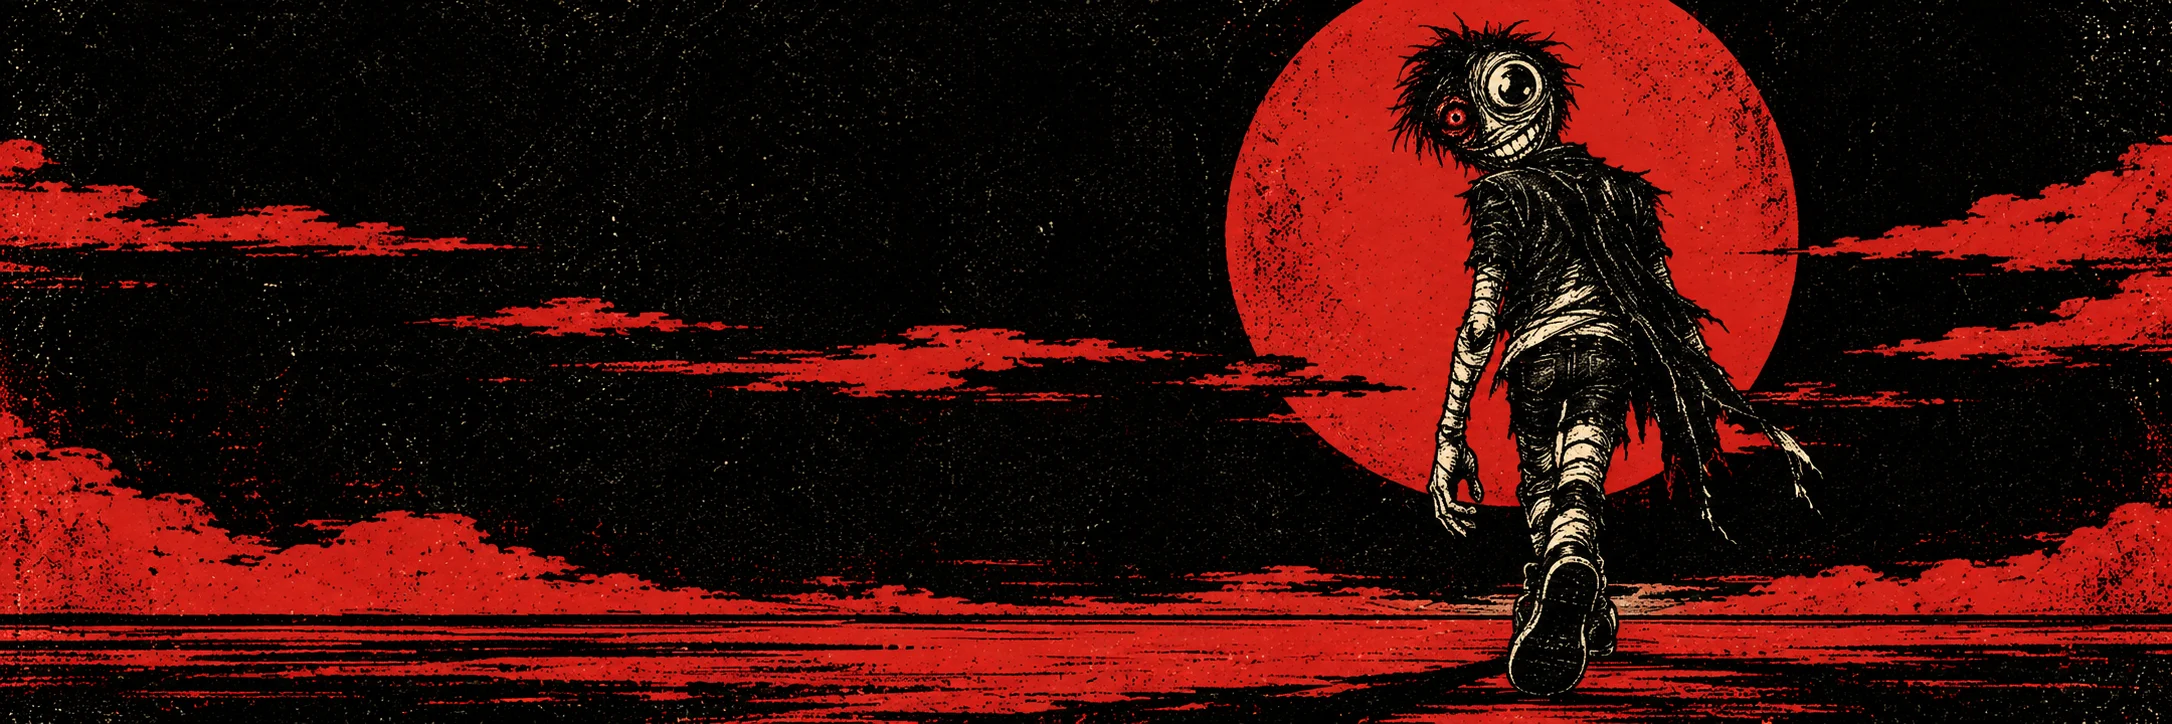
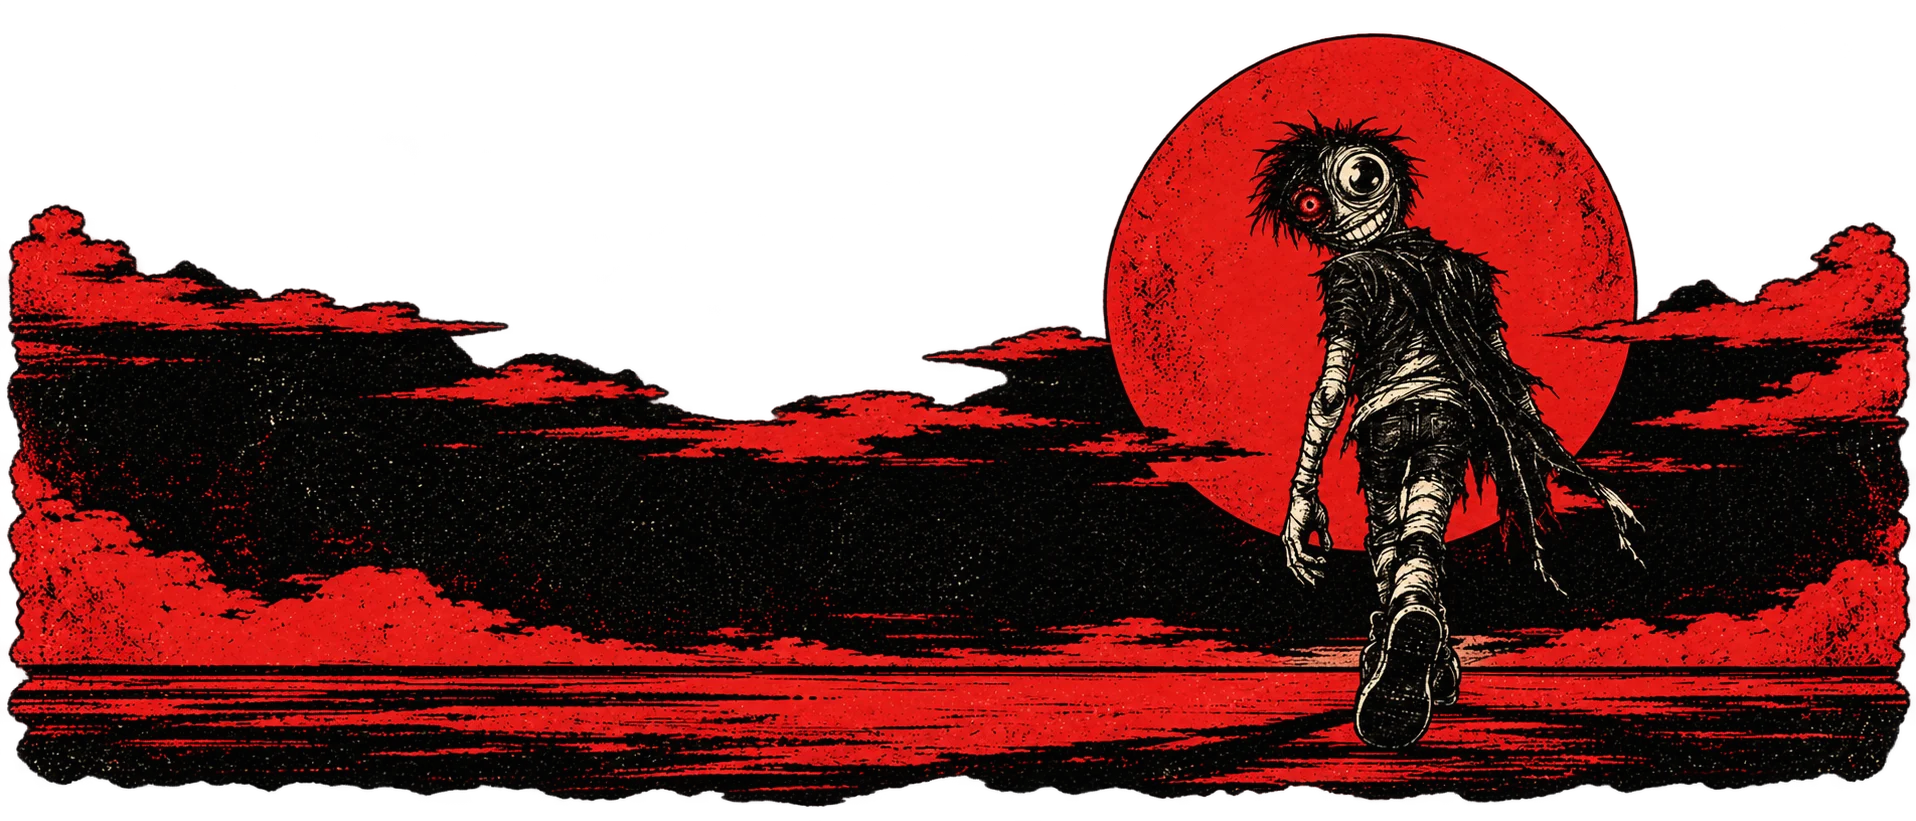
Fix IGW artwork placement and preserve full sun across screen sizes

diff --git a/tokens/IGW/site/style.css b/tokens/IGW/site/style.css
@@ -1,7 +1,7 @@
-:root{--bg:#10100e;--paper:#eee5cf;--muted:#a9a696;--red:#f4472d;--line:#383830}*{box-sizing:border-box}html{scroll-behavior:smooth;scroll-padding-top:24px}body{margin:0;background:var(--bg);color:var(--paper);font:16px/1.6 Arial,Helvetica,sans-serif}a{color:inherit;text-decoration:none}button,a,summary{-webkit-tap-highlight-color:transparent}a:focus-visible,summary:focus-visible{outline:2px solid var(--red);outline-offset:6px}.wrap{width:min(1280px,calc(100% - 96px));margin-inline:auto}.skip{position:absolute;left:16px;top:-100px;background:var(--paper);color:var(--bg);padding:12px;z-index:5}.skip:focus{top:8px}.nav{height:94px;display:flex;align-items:center;justify-content:space-between;border-bottom:1px solid var(--line)}.brand{display:flex;align-items:center;gap:12px;font-size:24px;font-weight:900;line-height:1.1;letter-spacing:-1px}.brand img{border-radius:50%}.brand-sub{display:block;font:9px/1.6 'Courier New',monospace;letter-spacing:1.8px;margin-top:4px}.nav nav{display:flex;gap:36px;align-items:center;font-size:13px}.nav-status,.eyebrow,.small-status,.tag,.fund-label,.hero-foot,.margin-note{font:11px/1.5 'Courier New',monospace;letter-spacing:1.8px}.nav-status{border:1px solid var(--line);padding:10px 14px}.dot{display:inline-block;width:6px;height:6px;border-radius:50%;background:var(--red);margin-right:7px}.hero{position:relative;isolation:isolate;min-height:640px;overflow:hidden}.hero-art{position:absolute;z-index:-2;inset:0;width:100%;height:100%;object-fit:cover;object-position:65% center}.hero:after{content:'';position:absolute;inset:0;z-index:-1;background:linear-gradient(90deg,#10100ee8,transparent 65%)}.hero-content{padding-top:54px;padding-bottom:45px}.eyebrow{margin:0 0 24px}.hero h1{font-family:Impact,'Arial Narrow',sans-serif;font-weight:900;font-size:clamp(80px,9.8vw,150px);line-height:.92;letter-spacing:-3px;margin:0 0 26px}.hero h1 span{color:var(--red)}.hero-copy{font-size:20px;line-height:1.55;margin:0 0 26px}.button{display:inline-flex;align-items:center;justify-content:space-between;gap:28px;padding:17px 22px;font:bold 11px/1.5 'Courier New',monospace;letter-spacing:.6px;transition:background .15s,transform .15s}.button:hover{transform:translateY(-2px)}.red{background:var(--red);color:#10100e}.red:hover{background:#ff684e}.pale{background:var(--paper);color:var(--bg)}.hero-foot{font-size:9px;margin-top:22px;color:#cac3af}.margin-note{position:absolute;right:24px;bottom:30px;writing-mode:vertical-rl;font-size:9px}.ticker{display:flex;justify-content:space-around;align-items:center;gap:24px;overflow:hidden;white-space:nowrap;border-block:1px solid var(--line);padding:14px 24px;background:var(--paper);color:var(--bg);font:bold 11px 'Courier New',monospace;letter-spacing:2px}.draw-section{padding-block:90px}.section-heading{display:flex;justify-content:space-between;align-items:baseline}.small-status{color:var(--muted);font-size:9px}.draw-grid{display:grid;grid-template-columns:1fr 1fr;gap:100px;align-items:center}h2{font-size:clamp(36px,4.5vw,64px);letter-spacing:-2px;line-height:1.04;margin:0 0 26px;font-weight:800}.draw-intro>p{max-width:430px}.muted{color:var(--muted);font-size:14px}.draw-card{border:1px solid #5d5a4e;padding:30px;background:#1b1b17;position:relative}.draw-card:before{content:'';position:absolute;top:-1px;left:-1px;width:70px;height:3px;background:var(--red)}.card-top{display:flex;justify-content:space-between;gap:12px;align-items:center}.card-top .eyebrow{margin:0}.tag{font-size:8px;border:1px solid var(--line);padding:5px 8px;color:var(--muted);white-space:nowrap}.fund{padding:32px 0 22px}.fund-label{display:block;color:var(--muted);font-size:9px}.fund strong{font-size:68px;line-height:1.3;letter-spacing:-3px}.fund strong span{font-size:17px;letter-spacing:0;color:var(--muted)}.draw-facts{border-top:1px solid var(--line);padding:14px 0 20px}.draw-facts>div{display:flex;justify-content:space-between;gap:16px;font-size:12px;padding:7px 0}.draw-facts span{color:var(--muted)}.draw-card .button{width:100%}.card-note{font-size:11px;color:var(--muted);margin:18px 0 0}.how-section{background:var(--paper);color:var(--bg);padding:75px 0}.how-section .eyebrow{color:#655e50}.steps{display:grid;grid-template-columns:repeat(3,1fr);gap:45px;margin-top:48px}.steps article{border-top:1px solid #bdb5a3;padding-top:18px}.step-number{font:12px 'Courier New',monospace;color:#77705f}h3{font-size:22px;letter-spacing:-.7px;margin:22px 0 12px}.steps p{font-size:14px;color:#585447;margin:0}.split{border-top:1px solid #bdb5a3;margin-top:45px;padding-top:25px;display:flex;align-items:center;gap:65px}.split>span{font:10px/1.7 'Courier New',monospace;letter-spacing:1px;max-width:130px;margin-right:auto}.split>div{display:flex;flex-direction:column}.split strong{font-size:33px;line-height:1.3;letter-spacing:-1px}.split div span{font-size:11px;color:#585447}.launch-section{display:grid;grid-template-columns:1fr 1fr;gap:100px;padding-block:90px}.launch-section h2{font-size:48px}.launch-card{border-block:1px solid var(--line);padding:12px 0;align-self:center}.launch-row{display:flex;justify-content:space-between;gap:20px;font-size:13px;padding:16px 0;border-bottom:1px solid var(--line)}.launch-row span{color:var(--muted)}.launch-row strong{text-align:right}.launch-card>p{font-size:11px;color:var(--muted)}.orange-text{color:var(--red)}.faq{padding-bottom:75px}.faq details{border-top:1px solid var(--line);padding:18px 0}.faq details:last-child{border-bottom:1px solid var(--line)}.faq summary{cursor:pointer;font-size:17px;font-weight:600;list-style:none;display:flex;justify-content:space-between;gap:15px}.faq summary::-webkit-details-marker{display:none}.faq summary:after{content:'+';color:var(--red)}.faq details[open] summary:after{content:'−'}.faq details p{font-size:14px;color:var(--muted);max-width:750px}.outro{position:relative;overflow:hidden}.outro-title{padding-top:30px;position:relative;z-index:1}.outro h2{font-family:Impact,'Arial Narrow',sans-serif;font-size:clamp(45px,6vw,85px);letter-spacing:0}.outro img{display:block;width:100%;height:auto;margin-top:-55px}.outro-title .eyebrow{color:var(--red)}footer{display:flex;align-items:center;justify-content:space-between;gap:24px;flex-wrap:wrap;padding:32px 0;border-top:1px solid var(--line)}footer>p,footer>a:last-of-type{font-size:11px;color:var(--muted)}footer .brand-sub{margin:0}footer .fine-print{flex-basis:100%;font-size:10px;margin:0;border-top:1px solid var(--line);padding-top:20px}
-@media(min-width:1800px){.hero-art{object-fit:contain;background:#030302}.hero{min-height:720px}}
-@media(max-width:900px){.wrap{width:calc(100% - 48px)}.draw-grid,.launch-section{gap:35px}.nav nav{gap:20px}.hero{min-height:610px}.hero-art{object-position:60% center}.draw-section,.launch-section{padding-block:60px}.steps{gap:22px}.split{gap:28px}.launch-section h2{font-size:38px}}
-@media(max-width:600px){.wrap{width:calc(100% - 36px)}.nav{height:76px}.nav nav>a:not(.nav-status){display:none}.nav-status{font-size:9px;padding:8px 10px}.brand{font-size:21px}.brand-sub{font-size:8px}.hero{min-height:680px}.hero-art{height:380px;top:auto;bottom:0;object-position:75% center}.hero:after{background:linear-gradient(180deg,#10100e 36%,#10100e99 57%,transparent 80%)}.hero-content{padding-top:35px}.hero h1{font-size:91px;letter-spacing:-2px}.hero-copy{font-size:16px;max-width:230px}.hero .eyebrow{font-size:9px}.hero-foot{font-size:8px}.hero .button{padding:14px 17px;font-size:10px}.margin-note{display:none}.ticker{justify-content:flex-start;font-size:9px;padding:12px 18px}.ticker span:nth-child(n+4){display:none}.section-heading{display:block}.small-status{margin-bottom:24px}.draw-grid,.launch-section{grid-template-columns:1fr;gap:28px}h2{font-size:44px}.draw-intro>p{font-size:14px}.draw-card{padding:23px}.steps{grid-template-columns:1fr;gap:28px;margin-top:30px}.steps h3{margin:12px 0 8px}.how-section{padding:50px 0}.split{flex-wrap:wrap;justify-content:space-between;gap:22px}.split>span{flex-basis:100%;max-width:none}.split strong{font-size:30px}.split div span{font-size:10px}.launch-section{padding-block:55px}.launch-section h2{font-size:43px}.faq summary{font-size:15px}.faq{padding-bottom:45px}.outro-title{padding-top:0}.outro h2{font-size:46px}.outro img{width:150%;max-width:none;margin-top:0;margin-left:-16%}footer{gap:18px}footer .brand{width:100%}footer>p{margin:0}.card-top .eyebrow{font-size:10px;letter-spacing:1px}}
+:root{--bg:#10100e;--paper:#eee5cf;--muted:#a9a696;--red:#f4472d;--line:#383830}*{box-sizing:border-box}html{scroll-behavior:smooth;scroll-padding-top:24px}body{margin:0;background:var(--bg);color:var(--paper);font:16px/1.6 Arial,Helvetica,sans-serif}a{color:inherit;text-decoration:none}button,a,summary{-webkit-tap-highlight-color:transparent}a:focus-visible,summary:focus-visible{outline:2px solid var(--red);outline-offset:6px}.wrap{width:min(1280px,calc(100% - 96px));margin-inline:auto}.skip{position:absolute;left:16px;top:-100px;background:var(--paper);color:var(--bg);padding:12px;z-index:5}.skip:focus{top:8px}.nav{height:94px;display:flex;align-items:center;justify-content:space-between;border-bottom:1px solid var(--line)}.brand{display:flex;align-items:center;gap:12px;font-size:24px;font-weight:900;line-height:1.1;letter-spacing:-1px}.brand img{border-radius:50%}.brand-sub{display:block;font:9px/1.6 'Courier New',monospace;letter-spacing:1.8px;margin-top:4px}.nav nav{display:flex;gap:36px;align-items:center;font-size:13px}.nav-status,.eyebrow,.small-status,.tag,.fund-label,.hero-foot,.margin-note{font:11px/1.5 'Courier New',monospace;letter-spacing:1.8px}.nav-status{border:1px solid var(--line);padding:10px 14px}.dot{display:inline-block;width:6px;height:6px;border-radius:50%;background:var(--red);margin-right:7px}.hero{position:relative;isolation:isolate;min-height:640px;overflow:hidden}.hero-art{position:absolute;z-index:-2;inset:0;width:100%;height:100%;object-fit:contain;object-position:center bottom}.hero:after{content:'';position:absolute;inset:0;z-index:-1;background:linear-gradient(90deg,#10100ee8,transparent 65%)}.hero-content{padding-top:54px;padding-bottom:45px}.eyebrow{margin:0 0 24px}.hero h1{font-family:Impact,'Arial Narrow',sans-serif;font-weight:900;font-size:clamp(80px,9.8vw,150px);line-height:.92;letter-spacing:-3px;margin:0 0 26px}.hero h1 span{color:var(--red)}.hero-copy{font-size:20px;line-height:1.55;margin:0 0 26px}.button{display:inline-flex;align-items:center;justify-content:space-between;gap:28px;padding:17px 22px;font:bold 11px/1.5 'Courier New',monospace;letter-spacing:.6px;transition:background .15s,transform .15s}.button:hover{transform:translateY(-2px)}.red{background:var(--red);color:#10100e}.red:hover{background:#ff684e}.pale{background:var(--paper);color:var(--bg)}.hero-foot{font-size:9px;margin-top:22px;color:#cac3af}.margin-note{position:absolute;right:24px;bottom:30px;writing-mode:vertical-rl;font-size:9px}.ticker{display:flex;justify-content:space-around;align-items:center;gap:24px;overflow:hidden;white-space:nowrap;border-block:1px solid var(--line);padding:14px 24px;background:var(--paper);color:var(--bg);font:bold 11px 'Courier New',monospace;letter-spacing:2px}.draw-section{padding-block:90px}.section-heading{display:flex;justify-content:space-between;align-items:baseline}.small-status{color:var(--muted);font-size:9px}.draw-grid{display:grid;grid-template-columns:1fr 1fr;gap:100px;align-items:center}h2{font-size:clamp(36px,4.5vw,64px);letter-spacing:-2px;line-height:1.04;margin:0 0 26px;font-weight:800}.draw-intro>p{max-width:430px}.muted{color:var(--muted);font-size:14px}.draw-card{border:1px solid #5d5a4e;padding:30px;background:#1b1b17;position:relative}.draw-card:before{content:'';position:absolute;top:-1px;left:-1px;width:70px;height:3px;background:var(--red)}.card-top{display:flex;justify-content:space-between;gap:12px;align-items:center}.card-top .eyebrow{margin:0}.tag{font-size:8px;border:1px solid var(--line);padding:5px 8px;color:var(--muted);white-space:nowrap}.fund{padding:32px 0 22px}.fund-label{display:block;color:var(--muted);font-size:9px}.fund strong{font-size:68px;line-height:1.3;letter-spacing:-3px}.fund strong span{font-size:17px;letter-spacing:0;color:var(--muted)}.draw-facts{border-top:1px solid var(--line);padding:14px 0 20px}.draw-facts>div{display:flex;justify-content:space-between;gap:16px;font-size:12px;padding:7px 0}.draw-facts span{color:var(--muted)}.draw-card .button{width:100%}.card-note{font-size:11px;color:var(--muted);margin:18px 0 0}.how-section{background:var(--paper);color:var(--bg);padding:75px 0}.how-section .eyebrow{color:#655e50}.steps{display:grid;grid-template-columns:repeat(3,1fr);gap:45px;margin-top:48px}.steps article{border-top:1px solid #bdb5a3;padding-top:18px}.step-number{font:12px 'Courier New',monospace;color:#77705f}h3{font-size:22px;letter-spacing:-.7px;margin:22px 0 12px}.steps p{font-size:14px;color:#585447;margin:0}.split{border-top:1px solid #bdb5a3;margin-top:45px;padding-top:25px;display:flex;align-items:center;gap:65px}.split>span{font:10px/1.7 'Courier New',monospace;letter-spacing:1px;max-width:130px;margin-right:auto}.split>div{display:flex;flex-direction:column}.split strong{font-size:33px;line-height:1.3;letter-spacing:-1px}.split div span{font-size:11px;color:#585447}.launch-section{display:grid;grid-template-columns:1fr 1fr;gap:100px;padding-block:90px}.launch-section h2{font-size:48px}.launch-card{border-block:1px solid var(--line);padding:12px 0;align-self:center}.launch-row{display:flex;justify-content:space-between;gap:20px;font-size:13px;padding:16px 0;border-bottom:1px solid var(--line)}.launch-row span{color:var(--muted)}.launch-row strong{text-align:right}.launch-card>p{font-size:11px;color:var(--muted)}.orange-text{color:var(--red)}.faq{padding-bottom:75px}.faq details{border-top:1px solid var(--line);padding:18px 0}.faq details:last-child{border-bottom:1px solid var(--line)}.faq summary{cursor:pointer;font-size:17px;font-weight:600;list-style:none;display:flex;justify-content:space-between;gap:15px}.faq summary::-webkit-details-marker{display:none}.faq summary:after{content:'+';color:var(--red)}.faq details[open] summary:after{content:'−'}.faq details p{font-size:14px;color:var(--muted);max-width:750px}.outro{position:relative;overflow:hidden}.outro-title{padding-top:30px;position:relative;z-index:1}.outro h2{font-family:Impact,'Arial Narrow',sans-serif;font-size:clamp(45px,6vw,85px);letter-spacing:0}.outro img{display:block;width:100%;height:auto;margin-top:-55px}.outro-title .eyebrow{color:var(--red)}footer{display:flex;align-items:center;justify-content:space-between;gap:24px;flex-wrap:wrap;padding:32px 0;border-top:1px solid var(--line)}footer>p,footer>a:last-of-type{font-size:11px;color:var(--muted)}footer .brand-sub{margin:0}footer .fine-print{flex-basis:100%;font-size:10px;margin:0;border-top:1px solid var(--line);padding-top:20px}
+@media(min-width:1800px){.hero{min-height:720px}}
+@media(max-width:900px){.wrap{width:calc(100% - 48px)}.draw-grid,.launch-section{gap:35px}.nav nav{gap:20px}.hero{min-height:610px}.draw-section,.launch-section{padding-block:60px}.steps{gap:22px}.split{gap:28px}.launch-section h2{font-size:38px}}
+@media(max-width:600px){.wrap{width:calc(100% - 36px)}.nav{height:76px}.nav nav>a:not(.nav-status){display:none}.nav-status{font-size:9px;padding:8px 10px}.brand{font-size:21px}.brand-sub{font-size:8px}.hero{min-height:640px}.hero-art{height:260px;top:auto;bottom:0}.hero:after{background:linear-gradient(180deg,#10100e 36%,#10100e99 57%,transparent 80%)}.hero-content{padding-top:35px}.hero h1{font-size:91px;letter-spacing:-2px}.hero-copy{font-size:16px;max-width:230px}.hero .eyebrow{font-size:9px}.hero-foot{font-size:8px}.hero .button{padding:14px 17px;font-size:10px}.margin-note{display:none}.ticker{justify-content:flex-start;font-size:9px;padding:12px 18px}.ticker span:nth-child(n+4){display:none}.section-heading{display:block}.small-status{margin-bottom:24px}.draw-grid,.launch-section{grid-template-columns:1fr;gap:28px}h2{font-size:44px}.draw-intro>p{font-size:14px}.draw-card{padding:23px}.steps{grid-template-columns:1fr;gap:28px;margin-top:30px}.steps h3{margin:12px 0 8px}.how-section{padding:50px 0}.split{flex-wrap:wrap;justify-content:space-between;gap:22px}.split>span{flex-basis:100%;max-width:none}.split strong{font-size:30px}.split div span{font-size:10px}.launch-section{padding-block:55px}.launch-section h2{font-size:43px}.faq summary{font-size:15px}.faq{padding-bottom:45px}.outro-title{padding-top:0}.outro h2{font-size:46px}.outro img{margin-top:16px}footer{gap:18px}footer .brand{width:100%}footer>p{margin:0}.card-top .eyebrow{font-size:10px;letter-spacing:1px}}
 @media(prefers-reduced-motion:reduce){html{scroll-behavior:auto}.button{transition:none}}
 
 /* Fictional fridge connection loop; pauses outside the viewport. */

diff --git a/tokens/IGW/site/index.html b/tokens/IGW/site/index.html
@@ -6,15 +6,15 @@
  <meta name="description" content="The world is going to shit. Meet IGW, a token with community prize draws. Coming to Pons. What could possibly go wrong?">
  <meta name="theme-color" content="#10100e"><link rel="canonical" href="https://igw.qianqi.site/">
  <meta property="og:title" content="It Gets Worse — IGW"><meta property="og:description" content="Everything is fucked. We're still here. IGW is preparing to launch on Pons."><meta property="og:image" content="https://igw.qianqi.site/assets/hero.webp"><meta property="og:url" content="https://igw.qianqi.site/"><meta property="og:type" content="website">
- <link rel="icon" href="/assets/favicon.png"><link rel="stylesheet" href="/style.css">
- <link rel="preload" href="/assets/hero.webp" as="image">
+ <link rel="icon" href="/assets/favicon.png"><link rel="stylesheet" href="/style.css?art=20261011b">
+ <link rel="preload" href="/assets/hero.webp?art=20261011b" as="image">
 </head>
 <body>
  <a class="skip" href="#main">Skip to content</a>
  <header class="nav wrap"><a class="brand" href="#" aria-label="It Gets Worse home"><img src="/assets/logo.webp" width="42" height="42" alt=""><span>IGW<span class="brand-sub">IT GETS WORSE</span></span></a><nav aria-label="Main navigation"><a href="#draws">The Draw</a><a href="#how">How It Works</a><a class="nav-status" href="#launch"><span class="dot"></span> PRE-LAUNCH</a></nav></header>
  <main id="main">
   <section class="hero" aria-labelledby="title">
-   <img class="hero-art" src="/assets/hero.webp" width="2172" height="724" alt="A grinning, bandaged wanderer walks beneath a red sun.">
+   <img class="hero-art" src="/assets/hero.webp?art=20261011b" width="1916" height="821" alt="A grinning, bandaged wanderer walks beneath a red sun.">
    <div class="hero-content wrap"><p class="eyebrow">A LITTLE DOOM. A LITTLE LUCK.</p><h1 id="title">IT GETS<br><span>WORSE.</span></h1><p class="hero-copy">The world is going to shit.<br>Your day doesn't have to.</p><a class="button red" href="#draws">SEE HOW IT WORKS <span aria-hidden="true">↘</span></a><p class="hero-foot">IGW / IT GETS WORSE / BUILT ON PONS</p></div>
    <span class="margin-note" aria-hidden="true">EVERYTHING IS FINE. PROBABLY.</span>
   </section>
@@ -31,7 +31,7 @@
   <section id="how" class="how-section"><div class="wrap"><p class="eyebrow">02 / HOW IT WORKS</p><h2>Where the<br>money goes.</h2><div class="steps"><article><span class="step-number">01</span><h3>Buy into the chaos.</h3><p>After launch, buy IGW through a supported trading route on Pons. Eligible purchase volume determines your draw tickets.</p></article><article><span class="step-number">02</span><h3>The prize fund grows.</h3><p>The proposed model allocates 80% of creator fees to the prize fund. The amount collected depends on actual trading activity.</p></article><article><span class="step-number">03</span><h3>The draw runs.</h3><p>A draw can take place when the required time has passed and the funding and participation conditions are met. If they aren't met, the draw waits.</p></article></div><div class="split"><span>PROPOSED CREATOR FEE SPLIT</span><div><strong>80%</strong><span>Prize fund</span></div><div><strong>15%</strong><span>Team</span></div><div><strong>5%</strong><span>Operations & gas</span></div></div></div></section>
   <section id="launch" class="launch-section wrap"><div><p class="eyebrow">03 / BEFORE THE WORLD ENDS</p><h2>Not launched.<br>Not pretending.</h2><p>The website exists. The token doesn't. Not yet.</p><p class="muted">The verified contract address, trading link, final draw rules and wallet dashboard will be available here after launch.</p></div><div class="launch-card"><div class="launch-row"><span>Token</span><strong>It Gets Worse / IGW</strong></div><div class="launch-row"><span>Planned pair</span><strong>IGW / USDG</strong></div><div class="launch-row"><span>Launch venue</span><strong>Pons</strong></div><div class="launch-row"><span>Contract address</span><strong>Not deployed</strong></div><div class="launch-row"><span>Status</span><strong class="orange-text">In preparation</strong></div><p>No wallet connection needed. Nothing to connect to yet.</p><div id="network-state" class="network-state" aria-live="polite">Checking launch status…</div></div></section>
   <section class="faq wrap"><p class="eyebrow">A FEW REASONABLE QUESTIONS</p><details><summary>Can I buy IGW yet?</summary><p>Not yet. There's no published IGW contract or official trading link. Both will appear here after launch.</p></details><details><summary>Is there a guaranteed winner every day?</summary><p>No. The proposed draw interval is 24 hours, but each draw also depends on funding and participation conditions. If those conditions aren't met, the draw waits.</p></details><details><summary>Does holding IGW earn tickets?</summary><p>No. The planned system awards tickets based on eligible purchases, not simply holding tokens. Final eligibility and ticket processing rules will be published before launch.</p></details><details><summary>What does “24 hours” mean?</summary><p>The proposed interval starts after the previous completed draw. It doesn't guarantee a payout every 24 hours.</p></details></section>
-  <section class="outro"><div class="wrap outro-title"><p class="eyebrow">YOU MADE IT THIS FAR.</p><h2>STILL HERE.<br>STILL GRINNING.</h2></div><img src="/assets/footer.webp" width="2172" height="724" loading="lazy" alt="The bandaged character lounges under a red sun, grinning despite everything."></section>
+  <section class="outro"><div class="wrap outro-title"><p class="eyebrow">YOU MADE IT THIS FAR.</p><h2>STILL HERE.<br>STILL GRINNING.</h2></div><img src="/assets/footer.webp?art=20261011b" width="1916" height="821" loading="lazy" alt="The bandaged character lounges under a red sun, grinning despite everything."></section>
  </main>
  <footer class="wrap"><a class="brand" href="#">IGW <span class="brand-sub">IT GETS WORSE</span></a><p>We're all fucked. Thanks for stopping by.</p><a href="#launch">Launch in preparation ↗</a><div class="footer-bottom"><p class="fine-print">IGW is a speculative token. Its value can fall, including to zero. Buying IGW does not guarantee a prize or financial return.</p><button class="contact-open" type="button" aria-haspopup="dialog">CONTACT ↗</button></div></footer>
  <dialog class="contact-dialog" aria-labelledby="contact-title">
